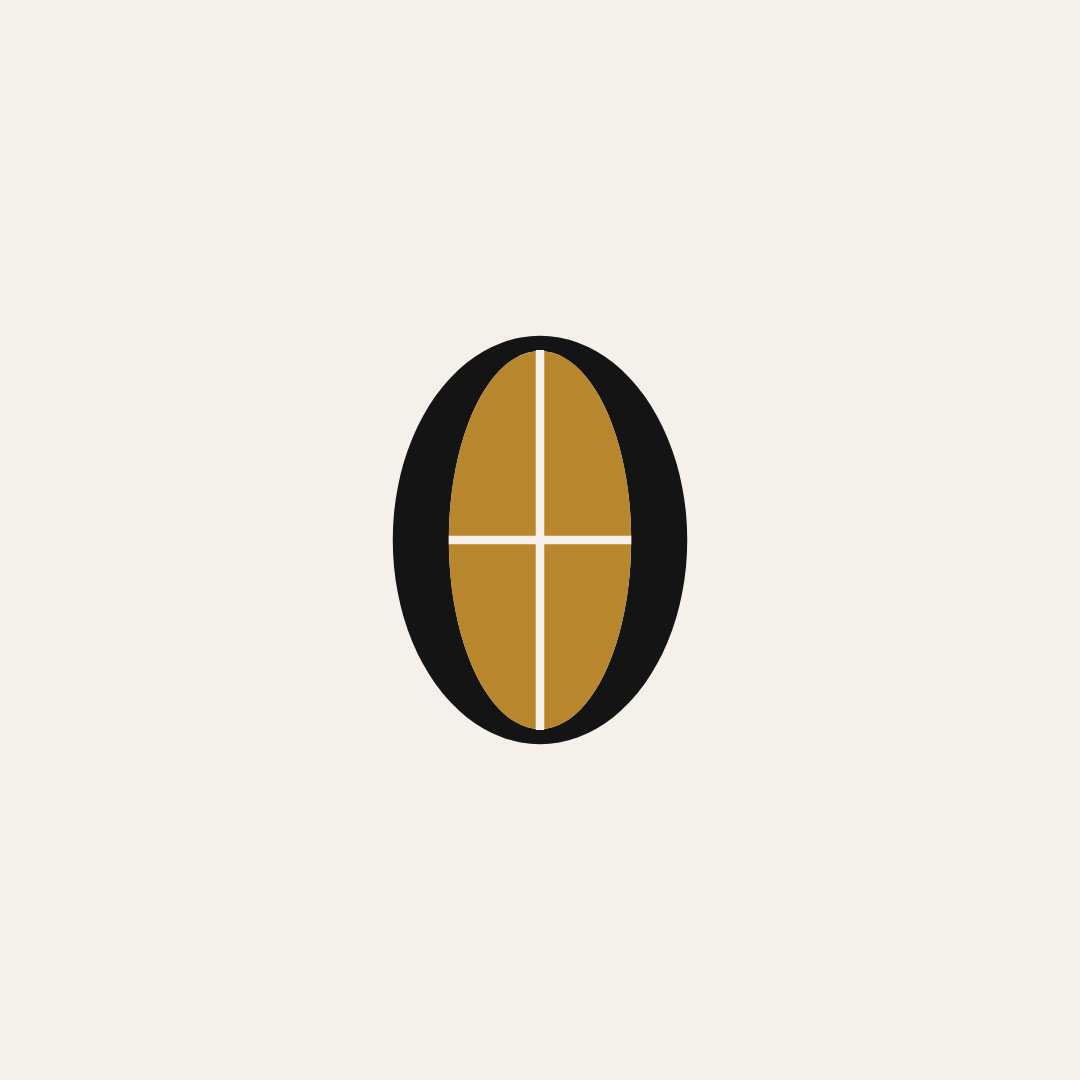
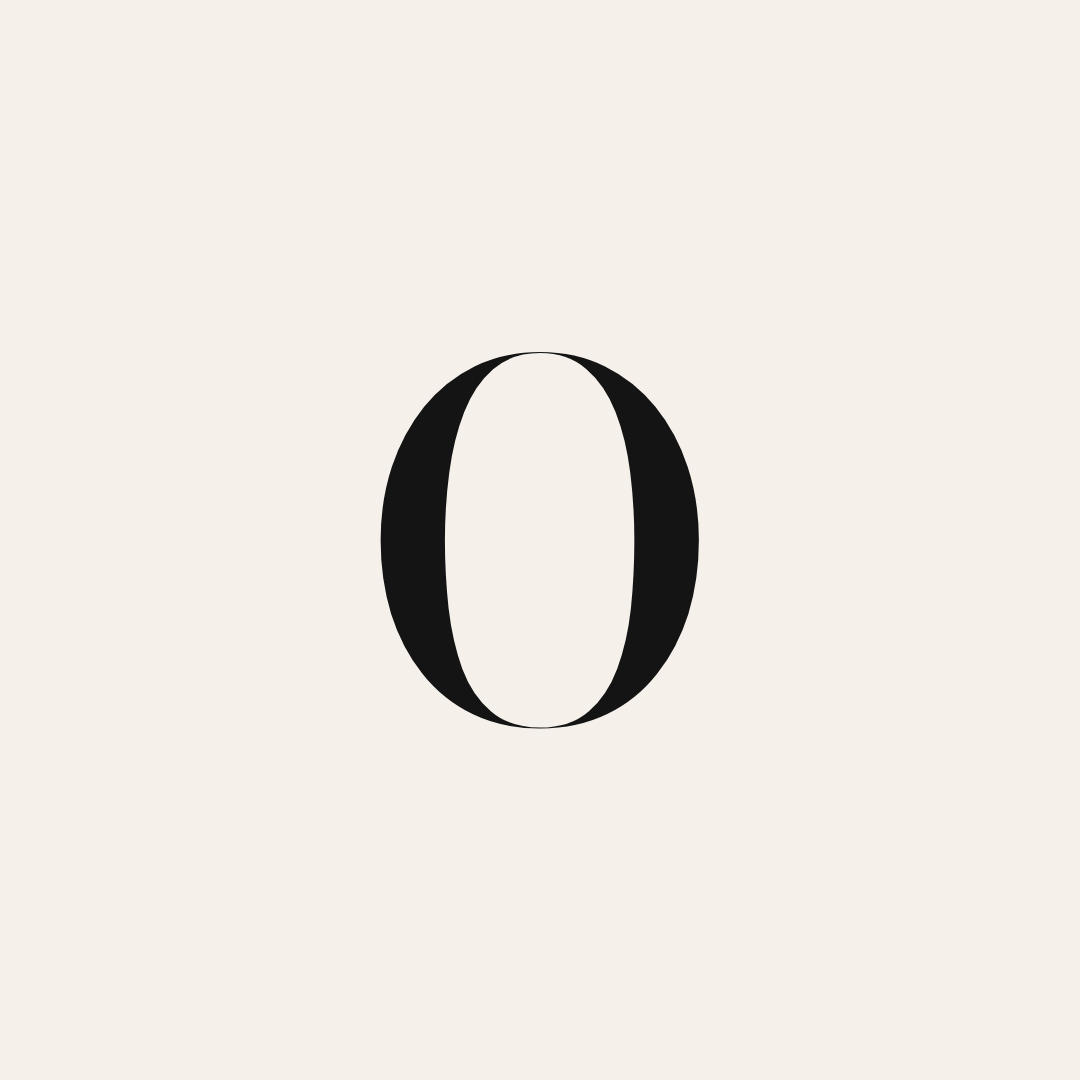
로고 다시: 금색 도형 빼고 보도니 고대비 워드마크 + O 모노그램 (메종 톤)
Claude-Session: https://claude.ai/code/session_01WP8fmT9o6LiNAey7aEXGF7

Changed region(s): [[0.3361, 0.3056, 0.6722, 0.7028]]

diff --git a/public/style.css b/public/style.css
@@ -56,12 +56,9 @@ a { color: inherit; }
 .nav a { flex: none; text-decoration: none; font: var(--caps); letter-spacing: var(--track); text-transform: uppercase; color: var(--text); padding: 4px 0; border-bottom: 1px solid transparent; }
 .nav .sh { display: none; }
 .nav a:hover, .nav a[aria-current="page"] { color: var(--ink); border-bottom-color: var(--ink); }
-.logo-mark { width: 22px; height: 31px; flex: none; }
-.logo-mark .lm-o { fill: var(--ink); }
-.logo-mark .lm-glow { fill: var(--marigold); }
-.logo-mark .lm-m { fill: none; stroke: var(--paper, #F5F1EA); stroke-width: 1.1; }
-.logo-mark.lg { width: 32px; height: 45px; }
-.logo-mark.xl { width: 46px; height: 64px; }
+.logo-mark { width: 22px; height: 26px; flex: none; fill: var(--ink); }
+.logo-mark.lg { width: 34px; height: 40px; }
+.logo-mark.xl { width: 48px; height: 57px; fill: var(--line); }
 
 /* buttons — 각지고, 작은 대문자 */
 .btn { display: inline-flex; align-items: center; justify-content: center; min-height: 52px; padding: 0 34px; background: var(--ink); color: var(--paper); font: var(--caps); letter-spacing: var(--track); text-transform: uppercase; text-decoration: none; border: 1px solid var(--ink); border-radius: 0; cursor: pointer; transition: background .25s, color .25s; }
@@ -245,7 +242,7 @@ h3 { font-weight: 400; }
 .site-foot { margin-top: clamp(96px, 12vw, 160px); border-top: 1px solid var(--rule); padding-top: clamp(64px, 8vw, 96px); text-align: center; }
 .cta-band + .site-foot, main:has(> .cta-band:last-child) + .site-foot { margin-top: 0; }
 .foot-zh { font: 400 15px/1 "Noto Sans TC", sans-serif; letter-spacing: .5em; margin: -6px -.5em 18px 0; color: var(--muted); }
-.foot-mark { font: 400 clamp(30px, 4.4vw, 52px)/1 var(--f-disp); letter-spacing: .26em; text-transform: uppercase; margin: 0 -.26em 18px 0; }
+.foot-mark { font-variation-settings: "opsz" 72 !important; font: 500 clamp(32px, 4.6vw, 56px)/1 var(--f-disp); letter-spacing: .26em; text-transform: uppercase; margin: 0 -.26em 18px 0; }
 .foot-tag { font: italic 400 17px/1.5 var(--f-disp); color: var(--muted); margin: 0 0 44px; }
 .lang-ko .foot-tag { font-style: normal; font-family: "Nanum Myeongjo", serif; font-size: 15px; }
 .foot-links { display: flex; flex-wrap: wrap; justify-content: center; gap: 14px 34px; margin-bottom: 40px; }
